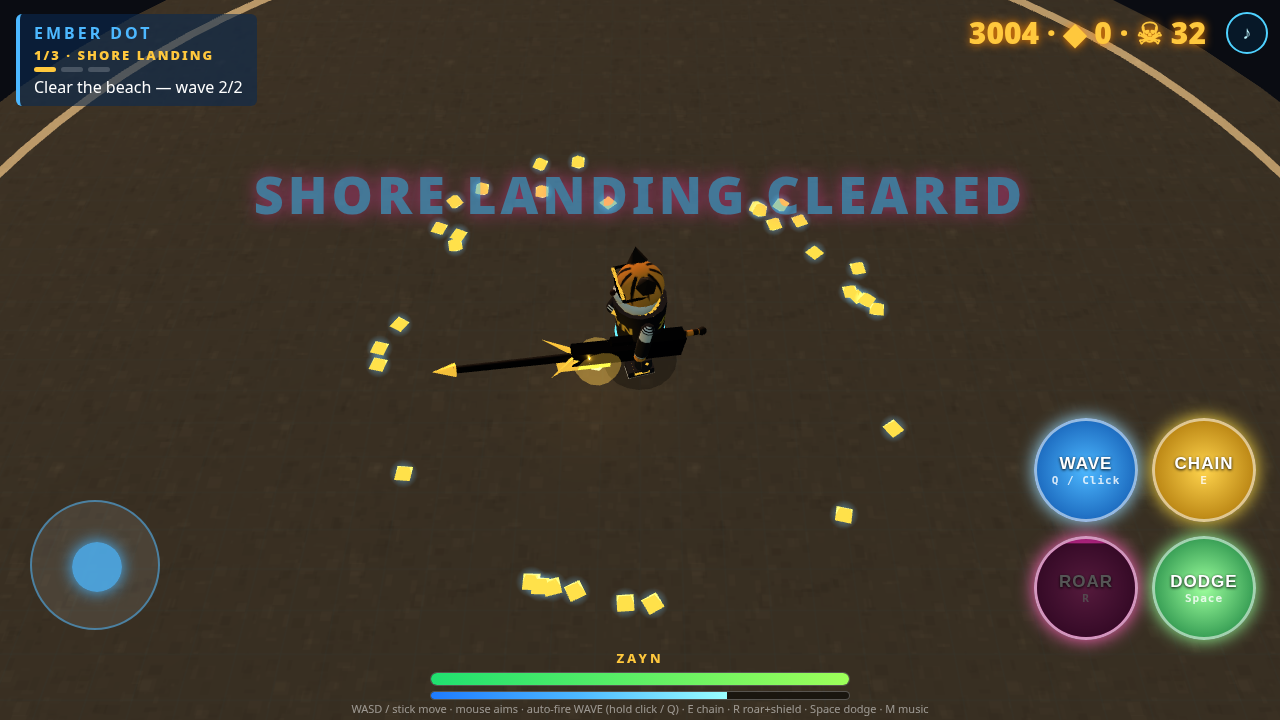
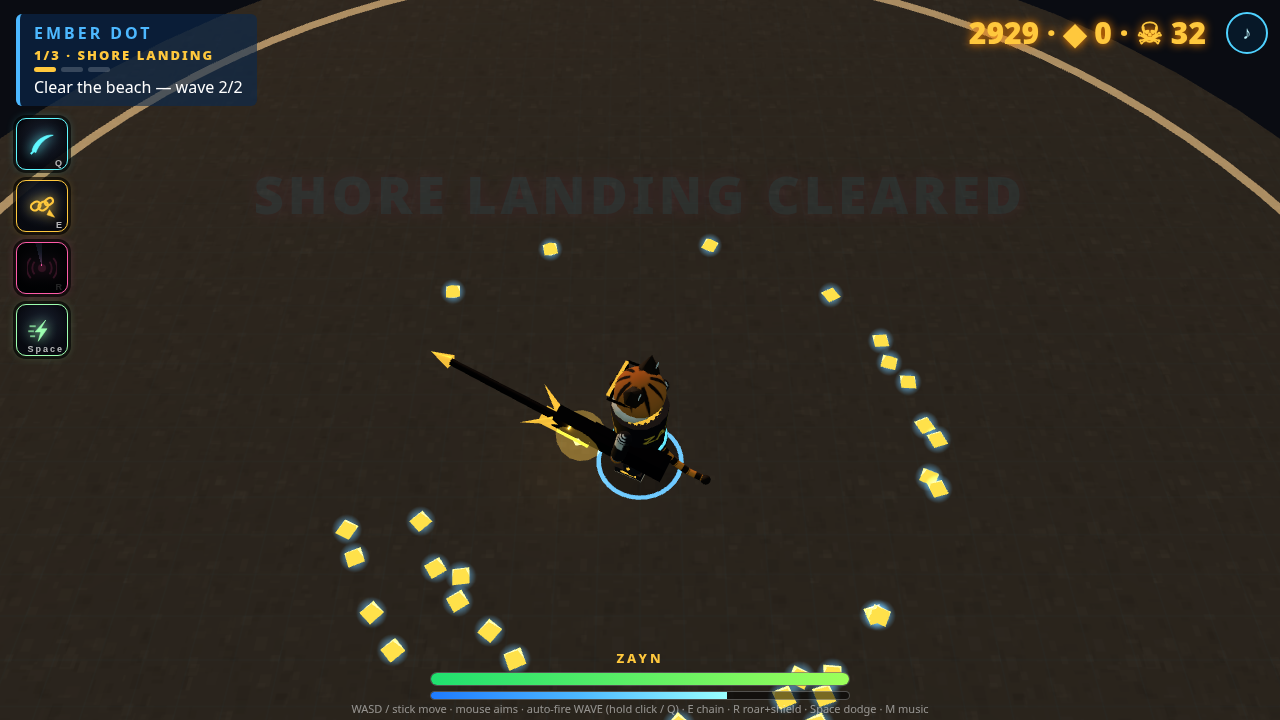
Archipelago overview intro (aerial → cloud dive → fade → boat); extruded speedboat w/ deck/motor + foam wake; deeper glossy water; docs: visual north star, movement, audio, roster kits; re-shot sections

diff --git a/public/game.js b/public/game.js
@@ -24,7 +24,7 @@ const sky = new THREE.Group(); scene.add(sky);
 { const s = new THREE.Mesh(new THREE.CircleGeometry(40, 32), new THREE.MeshBasicMaterial({ color: 0xffb347, fog: false })); s.position.set(-300, 70, -900); s.lookAt(0, 0, 0); scene.add(s); }
 // ocean
 const oceanG = new THREE.PlaneGeometry(700, 700, 120, 120); oceanG.rotateX(-Math.PI / 2);
-const ocean = new THREE.Mesh(oceanG, new THREE.MeshStandardMaterial({ color: 0x12c8e8, roughness: .25, metalness: .1, flatShading: true, transparent: true, opacity: .93 }));
+const ocean = new THREE.Mesh(oceanG, new THREE.MeshStandardMaterial({ color: 0x0f8fb8, roughness: .12, metalness: .35, flatShading: true, transparent: true, opacity: .95, emissive: 0x03263a }));
 ocean.position.y = -0.4; scene.add(ocean);
 const oBase = Float32Array.from(oceanG.attributes.position.array);
 // island (Ember Dot) + background HertzFlow-mark islets
@@ -261,15 +261,29 @@ function setChar(id) { CHID = id; CH = CHARS[id]; for (const c of [...zayn.child
   CD.wave = CH.wave.cd; document.querySelectorAll('.nm').forEach(n => n.textContent = CH.name); }
 // speedboat
 const boat = new THREE.Group();
-{ const hull = new THREE.Mesh(new THREE.BoxGeometry(3.4, 1.2, 9), M(0xffffff)); hull.position.y = .3;
-  const nose = new THREE.Mesh(new THREE.ConeGeometry(1.7, 3, 4), M(0xffffff)); nose.rotation.x = Math.PI / 2; nose.rotation.y = Math.PI / 4; nose.position.set(0, .3, 6); nose.scale.set(1, 1, .7);
-  const stripe = new THREE.Mesh(new THREE.BoxGeometry(3.45, .3, 9.1), M(SKY, .5)); stripe.position.y = .5;
-  const glass = new THREE.Mesh(new THREE.BoxGeometry(3, 1, .2), M(0x99e6ff, .3, { transparent: true, opacity: .6 })); glass.position.set(0, 1.4, 2.5); glass.rotation.x = -.4;
-  boat.add(hull, nose, stripe, glass); scene.add(boat); boat.visible = false; }
+{ const plan = new THREE.Shape(); plan.moveTo(-1.8, -4.5); plan.lineTo(1.8, -4.5); plan.lineTo(1.9, 1.5); plan.quadraticCurveTo(1.6, 5, 0, 7.2); plan.quadraticCurveTo(-1.6, 5, -1.9, 1.5); plan.closePath();
+  const hullG = new THREE.ExtrudeGeometry(plan, { depth: 1.3, bevelEnabled: true, bevelThickness: .35, bevelSize: .3, bevelSegments: 2, curveSegments: 10 }); hullG.rotateX(-Math.PI / 2); hullG.translate(0, -.5, 0);
+  const hull = new THREE.Mesh(hullG, M(0xf4f6f8, 0, { roughness: .35, metalness: .2 }));
+  const keel = new THREE.Mesh(hullG, M(0x0c1a2a, 0, { roughness: .4 })); keel.scale.set(.96, .45, .97); keel.position.y = -.55;
+  const stripe = new THREE.Mesh(hullG, M(SKY, .8)); stripe.scale.set(1.02, .12, 1.01); stripe.position.y = .25;
+  const deck = new THREE.Mesh(new THREE.BoxGeometry(3, .12, 6), M(0x2a2f38, 0, { roughness: .8 })); deck.position.set(0, .86, -1);
+  const glass = new THREE.Mesh(new THREE.BoxGeometry(3.1, 1.1, .12), M(0x9fe8ff, .25, { transparent: true, opacity: .55, metalness: .6, roughness: .05 })); glass.position.set(0, 1.4, 2.2); glass.rotation.x = -.55;
+  const motor = new THREE.Mesh(new THREE.BoxGeometry(.9, 1.6, .9), M(0x14161c, 0, { metalness: .6, roughness: .3 })); motor.position.set(0, .9, -4.9);
+  const cowl = new THREE.Mesh(new THREE.BoxGeometry(.95, .25, .95), M(SKY, 1)); cowl.position.set(0, 1.75, -4.9);
+  boat.add(keel, hull, stripe, deck, glass, motor, cowl);
+  // wake: two foam ribbons + a center churn (shared additive sprite, no particles flood)
+  const foam = (x, rot) => { const w = sprite(STREAK, 0xe8fbff, 2.2, 34, .75); w.position.set(x, -.25, -21); w.rotation.y = Math.PI + rot; boat.add(w); return w; };
+  boat.userData.wake = [foam(-2.5, -.12), foam(2.5, .12), (() => { const c = sprite(ORB, 0xffffff, 5, 12, .8); c.position.set(0, -.2, -8); boat.add(c); return c; })()];
+  scene.add(boat); boat.visible = false; }
+// clouds for the overview descent (flat soft sprites, one shared texture)
+const cover = []; const clouds = new THREE.Group(); scene.add(clouds); clouds.visible = false;
+for (let i = 0; i < 26; i++) { const c = sprite(ORB, 0xffffff, 90 + Math.random() * 90, 60 + Math.random() * 60, .8); c.material.blending = THREE.NormalBlending; c.position.set((Math.random() - .5) * 360, 150 + Math.random() * 60, -80 + (Math.random() - .5) * 280); clouds.add(c); }
+for (let i = 0; i < 9; i++) { const c = sprite(ORB, 0xf4f8ff, 260, 200, .95); c.material.blending = THREE.NormalBlending; c.position.set((i % 3 - 1) * 110, 172 + i * 4, 60 + ((i / 3) | 0) * 60 - 60); clouds.add(c); cover.push(c); } // cover layer the camera dives into
+const deepSea = new THREE.Mesh(new THREE.PlaneGeometry(6000, 6000).rotateX(-Math.PI / 2), new THREE.MeshBasicMaterial({ color: 0x0b5f80 })); deepSea.position.y = -1.2; clouds.add(deepSea);
 
 // ===== isometric arena: muted dark floor so FX pop =====
 const ARENA = 40;
-const keep = new Set([ocean, pts, sky, zayn, boat]); const decor = scene.children.filter(o => !o.isLight && !keep.has(o));
+const keep = new Set([ocean, pts, sky, zayn, boat, clouds]); const decor = scene.children.filter(o => !o.isLight && !keep.has(o));
 const floorTex = canvasTex(512, 512, (x, w, h) => { x.fillStyle = '#56575c'; x.fillRect(0, 0, w, h);
   for (let i = 0; i < 900; i++) { x.fillStyle = `rgba(${Math.random() < .5 ? '255,255,255' : '0,0,0'},${Math.random() * .05})`; x.fillRect(Math.random() * w, Math.random() * h, 3 + Math.random() * 18, 3 + Math.random() * 18); }
   x.strokeStyle = 'rgba(77,184,255,.08)'; x.lineWidth = 2; for (let i = 0; i <= 8; i++) { x.beginPath(); x.moveTo(i * 64, 0); x.lineTo(i * 64, h); x.moveTo(0, i * 64); x.lineTo(w, i * 64); x.stroke(); } });
@@ -399,9 +413,11 @@ function setArena(on) { arena.visible = on; decor.forEach(o => o.visible = !on);
 function clearField() { enemies.forEach(e => e.mesh && scene.remove(e.mesh)); enemies.length = 0; gems.length = 0; nums.length = 0; decals.forEach(d => scene.remove(d.m)); decals.length = 0; }
 function startCine() {
   $('#title').classList.remove('on'); show('#title', false); show('#cine', true); show('#hud', false); show('#end', false);
-  S.mode = 'cine'; S.t = 0; boat.visible = true; boat.position.set(0, 0, 230); boat.rotation.y = Math.PI; setArena(false); clearField(); shield.visible = false;
-  boat.add(zayn); zayn.position.set(0, .9, -1); zayn.rotation.y = 0;
+  S.mode = 'over'; S.t = 0; boat.visible = false; setArena(false); clearField(); shield.visible = false; clouds.visible = true; scene.fog.far = 2000;
+  $('#cineText').textContent = 'HERTZFLOW ARCHIPELAGO'; $('#cineSub').textContent = 'Ember Dot · Moonleaf Oval · The h · Tidering Oval · Gold Dot';
 }
+function startBoat() { S.mode = 'cine'; S.t = 0; clouds.visible = false; scene.fog.far = 320; $('#cineText').textContent = 'ALMOST THERE';
+  boat.visible = true; boat.position.set(0, 0, 230); boat.rotation.y = Math.PI; boat.add(zayn); zayn.position.set(0, .9, -1); zayn.rotation.set(0, 0, 0); zayn.scale.set(1, 1, 1); }
 function landOnBeach() {
   if (S.mode !== 'cine') return; S.mode = 'fading'; fade(1);
   setTimeout(() => {
@@ -505,7 +521,7 @@ function use(p) { if (S.mode !== 'play' || S.cd[p] > 0) return; if (COST[p] && S
   S.en -= COST[p] || 0; S.cd[p] = CD[p] * (p === 'wave' && S.frenzy > 0 ? .55 : 1); act[p](); }
 
 // ===== input: WASD/stick move, mouse aims, auto-fire at nearest when no mouse =====
-addEventListener('keydown', e => { keys[e.code] = true; const m = { KeyQ: 'wave', KeyE: 'chain', KeyR: 'roar', Space: 'dodge' }[e.code]; if (m) { use(m); e.preventDefault(); } if (S.mode === 'cine' && (e.code === 'Enter' || e.code === 'Escape')) landOnBeach(); });
+addEventListener('keydown', e => { keys[e.code] = true; const m = { KeyQ: 'wave', KeyE: 'chain', KeyR: 'roar', Space: 'dodge' }[e.code]; if (m) { use(m); e.preventDefault(); } if (S.mode === 'over' && (e.code === 'Enter' || e.code === 'Escape')) { startBoat(); } else if (S.mode === 'cine' && (e.code === 'Enter' || e.code === 'Escape')) landOnBeach(); });
 addEventListener('keyup', e => keys[e.code] = false);
 document.querySelectorAll('.p').forEach(b => b.addEventListener('pointerdown', e => { e.stopPropagation(); use(b.dataset.p); }));
 const mouse = { x: 0, y: 0, on: false, down: false, ray: new THREE.Raycaster(), plane: new THREE.Plane(new THREE.Vector3(0, 1, 0), 0), hit: new THREE.Vector3() };
@@ -521,7 +537,7 @@ $('.cards').innerHTML = Object.entries(CHARS).map(([id, c]) => `<div class="card
 document.querySelectorAll('.card.pick').forEach(el => el.onclick = () => { setChar(el.dataset.c); fade(1); setTimeout(() => { startCine(); fade(0); }, 600); });
 window.__pick = id => { setChar(id); startCine(); };
 setChar('zayn'); if ('ontouchstart' in window || navigator.maxTouchPoints > 0) document.body.classList.add('touch');
-$('#skip').onclick = landOnBeach;
+$('#skip').onclick = () => { if (S.mode === 'over') startBoat(); landOnBeach(); };
 $('#retry').onclick = () => { show('#end', false); fade(1); S.mode = 'clear'; const s0 = S.secStart; setTimeout(() => { Object.assign(S, s0); startSection(S.sec); }, 600); };
 $('#again').onclick = () => { show('#end', false); fade(1); setTimeout(() => { startCine(); fade(0); }, 600); };
 $('#menu').onclick = () => { show('#end', false); show('#hud', false); show('#title', true); S.mode = 'title'; setArena(false); clearField(); };
@@ -538,9 +554,14 @@ function tick(now) {
   pylons.forEach((p, i) => { p.rotation.y += dt * 2; p.position.y = 8.5 + Math.sin(S.t * 2 + i) * .4; });
 
   if (S.mode === 'title') { const r = 70; cam.fov = 60; cam.updateProjectionMatrix(); cam.position.set(Math.cos(S.t * .1) * r, 22, Math.sin(S.t * .1) * r); cam.lookAt(0, 3, 0); }
-  else if (S.mode === 'cine' || S.mode === 'fading') {
+  else if (S.mode === 'over' || S.mode === 'overfade') { // aerial overview: archipelago reads as the HertzFlow mark, camera dives through clouds
+    const k = Math.min(1, S.t / 5), e = k * k * (3 - 2 * k); cam.fov = 55; cam.updateProjectionMatrix();
+    cam.position.set(Math.sin(S.t * .15) * 20, 460 - e * 300, 120 - e * 40); cam.lookAt(10, 0, -95 + e * 30); const cv = Math.max(0, (k - .6) / .4); cover.forEach(c => c.material.opacity = cv * .95);
+    if (S.t > 4.4 && S.mode === 'over') { S.mode = 'overfade'; fade(1); setTimeout(() => { if (S.mode === 'overfade') { startBoat(); fade(0); } }, 700); }
+  }
+  else if (S.mode === 'cine' || S.mode === 'fading') { boat.userData.wake.forEach((w, i) => { w.material.opacity = (i < 2 ? .55 : .7) + Math.sin(S.t * 9 + i) * .15; });
     const k = Math.min(1, S.t / 13); boat.position.z = 230 - k * 190; boat.position.y = Math.sin(S.t * 6) * .25; boat.rotation.z = Math.sin(S.t * 2) * .06; boat.rotation.x = -.06;
-    burst(new THREE.Vector3(boat.position.x + (Math.random() - .5) * 3, .3, boat.position.z + 5), [0xffffff, 0xbff6ff], 6, 3, 2.5, 8);
+    burst(new THREE.Vector3(boat.position.x + (Math.random() - .5) * 3, .2, boat.position.z + 5), [0xffffff, 0xbff6ff], 2, 3, 2, 8);
     $('#cineSub').textContent = `Ember Dot · ${Math.max(0, (boat.position.z - 34) / 500).toFixed(2)} km`;
     const sw = Math.sin(S.t * .35) * 6;
     cam.position.set(boat.position.x + sw, 6 + Math.sin(S.t) * .4, boat.position.z + 14); cam.lookAt(boat.position.x, 3, boat.position.z - 20);
@@ -663,4 +684,4 @@ addEventListener('keydown', e => { if (e.code === 'KeyM') muteBtn.click(); });
 const unlock = () => { initAudio(); if (!muted) music.play().catch(() => {}); };
 ['pointerdown', 'keydown', 'touchstart'].forEach(t => addEventListener(t, unlock, { once: true, capture: true }));
 applyMusic();
-setInterval(() => setDuck(S.mode === 'title' ? .55 : S.mode === 'cine' ? .32 : .16), 250); // duck theme under battle SFX
+setInterval(() => setDuck(S.mode === 'title' || S.mode === 'over' || S.mode === 'overfade' ? .55 : S.mode === 'cine' ? .32 : .16), 250); // duck theme under battle SFX

diff --git a/docs/DESIGN.md b/docs/DESIGN.md
@@ -23,8 +23,9 @@ WASD / arrows / stick = move (screen-relative) · mouse aims · WAVE auto-fires 
 ## Performance rules
 Crabs are one InstancedMesh (body/claws/eyes); gems instanced; all Static share one noise-flicker shader; HP bars + damage numbers on a single 2D canvas overlay; enemies ≤ ~4k tris.
 
-## Mission flow (boat intro)
-1. Pick a character you own.
+## Mission flow (overview → boat intro)
+1. Pick any Signal Keeper (fan build: whole roster unlocked).
+1b. Aerial overview of the HertzFlow Archipelago (islands read as the logo layout) → camera dives into clouds → fade to black.
 2. Cinematic: speedboat cutting toward the island — "Almost There".
 3. Hard fade to black.
 4. Fade in on the beach, weapon in hand, mission objective on screen.
@@ -54,3 +55,12 @@ Hero (Mythic, founder, strongest) · Bankyo (Legendary) · Zayn (Legendary) · L
 - Hit-stop, sparks, screen shake, big colored waves per character.
 - Enemies: Glitch Crab, Wick Runner, Red Candle Brute, Static Spitter → the Master (melee → rifts → Liquidation Mode).
 - Hyper Lev (2x–100x) multiplies score and damage taken.
+
+## Visual north star
+`docs/ref-short-frame.png` (from the reference Short): iso top-down, muted desaturated ground, high-contrast sharp FX, one loud cyan/sky shield read on the player, tiny swarm vs ~3× elite, compact vertical icon skill strip (desktop) with cooldown sweep + tiny hotkey caption. Player sits lower-third so kite space above stays readable. FX budget: one hit flash + thin rings, short sparks, no ground-washing trails.
+
+## Movement feel
+Snappy, not floaty: velocity eases to target in ~0.05s, near-instant stop, snap-to-face (aim or move), hop stride + forward lean, landing squash, punchy 0.18s dodge hop with i-frames + whoosh. Shared by every character (per-char top speed only).
+
+## Audio
+Theme ducks to ~30% under combat (title 0.55 → boat 0.32 → combat 0.16) so synth SFX read: hit tick, shot whoosh, boom, gem blip, dodge whoosh, roar, hurt. Mute (M / ♪) silences both.

diff --git a/docs/CHARACTERS.md b/docs/CHARACTERS.md
@@ -26,3 +26,17 @@ Moon shard in his left eye; max leverage, always gets back up. *"Liquidated? Coo
 
 ## WARDEN — Wingbreaker Vanguard · Rare
 Green wing-mark armor from Hero; first line of defense. *"Nobody gets left on the chart."* Move: Green Wing Barrage. Unlock: team raid with zero allies lost.
+
+## Playable kits (fan build — all unlocked)
+Shared controls: WAVE (Q/auto) · signature skill (E) · ultimate (R, 30 Flow) · dodge (Space). Every model has a sky-blue player ring so the player never reads as Static.
+
+| Char | HP / speed | WAVE | E | R |
+|---|---|---|---|---|
+| Zayn | 100 / 15 | cyan crescent | Gold Chain lasso + AoE | Roar · shield bubble |
+| Hero | 120 / 14 | big orange crescent | Candle Breaker leap-slam | Star-Eye Verdict: freeze field 30m |
+| Bankyo | 110 / 14 | slow piercing tide orb | Flow Orb (huge piercing orb, bursts) | Tsunami: heal 35 + push |
+| Lyra | 85 / 17.5 | rapid green bolts | Leafstep Volley 7-bolt fan | Moon Rain 18-bolt ring |
+| Hertzling | 90 / 15.5 | spinning purple ring | Echo Rift: pull then burst | Resonance Pulse ×3 |
+| Chado | 90 / 17 | short wide sunset slash | Sunset Twin Slash dash-through | Shadow Step blink + double burst |
+| Kael | 105 / 15.5 | heavy blue crescent | Moon Cleave around self | Moonflare Frenzy: fire-rate/speed/damage up 5s |
+| Warden | 140 / 13.5 | green crescent | Green Wing Barrage (5 strikes) | Bulwark shield bubble |
